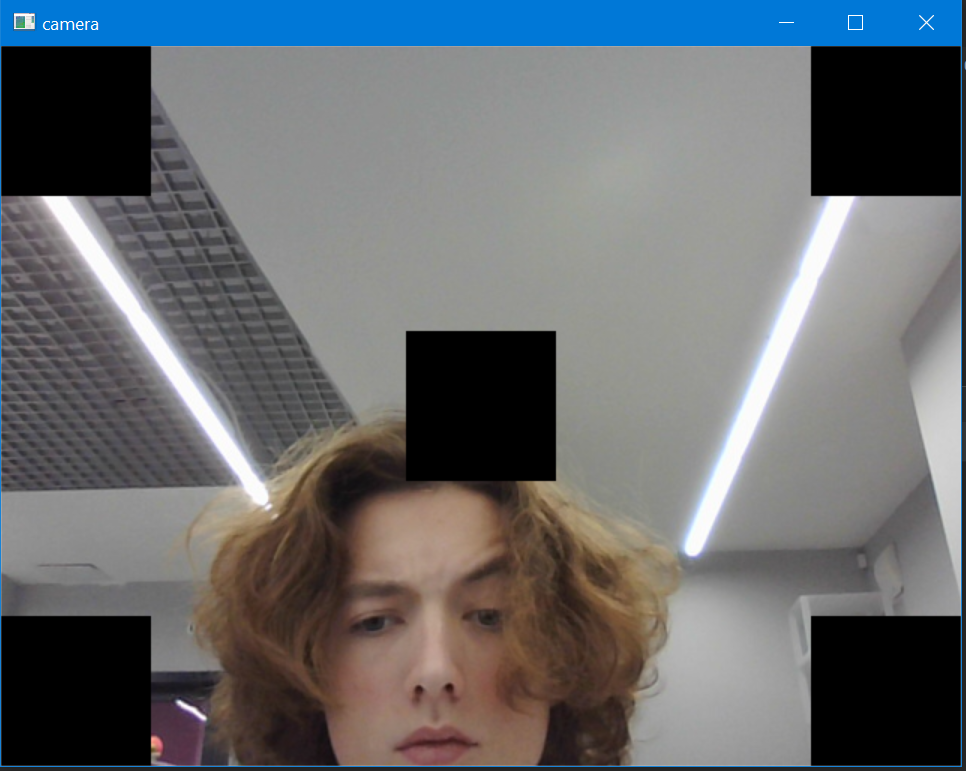
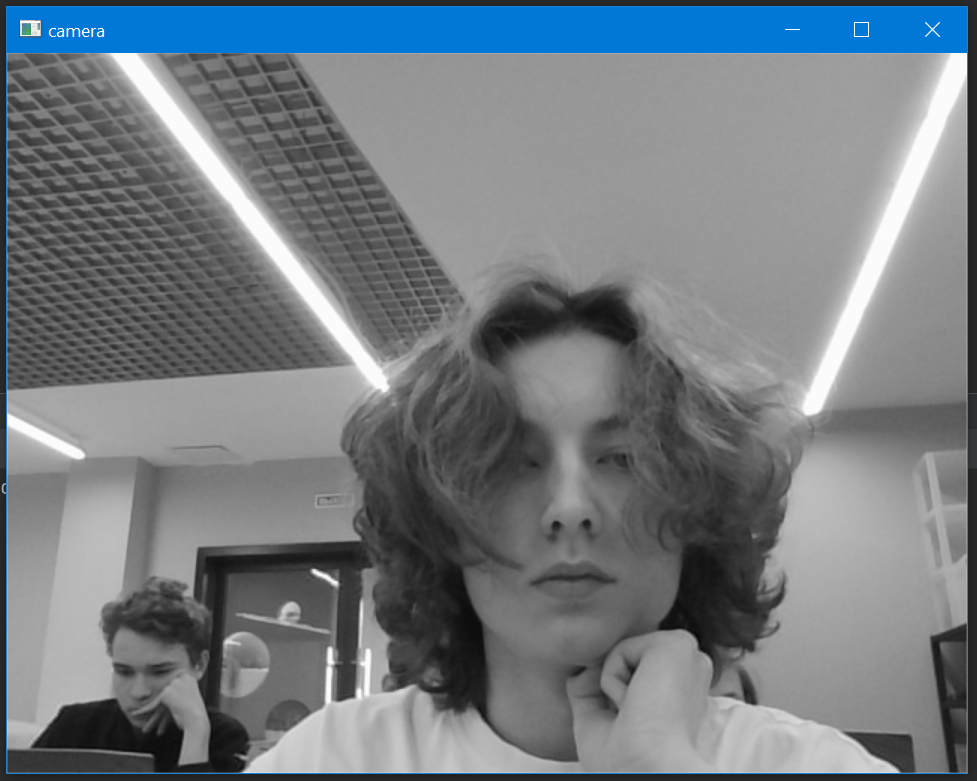
monochrome images

diff --git a/blackwhite.py b/blackwhite.py
@@ -1,0 +1,14 @@
+import cv2
+
+cap = cv2.VideoCapture(0)
+while True:
+    ret, frame = cap.read()
+    height, width, _ = frame.shape
+    grayscale = cv2.cvtColor(frame, cv2.COLOR_BGR2GRAY)
+    cv2.imshow('camera', grayscale)
+    key = cv2.waitKey(1)
+    if key == ord(' '):
+        break
+
+cv2.destroyAllWindows()
+cap.release()
